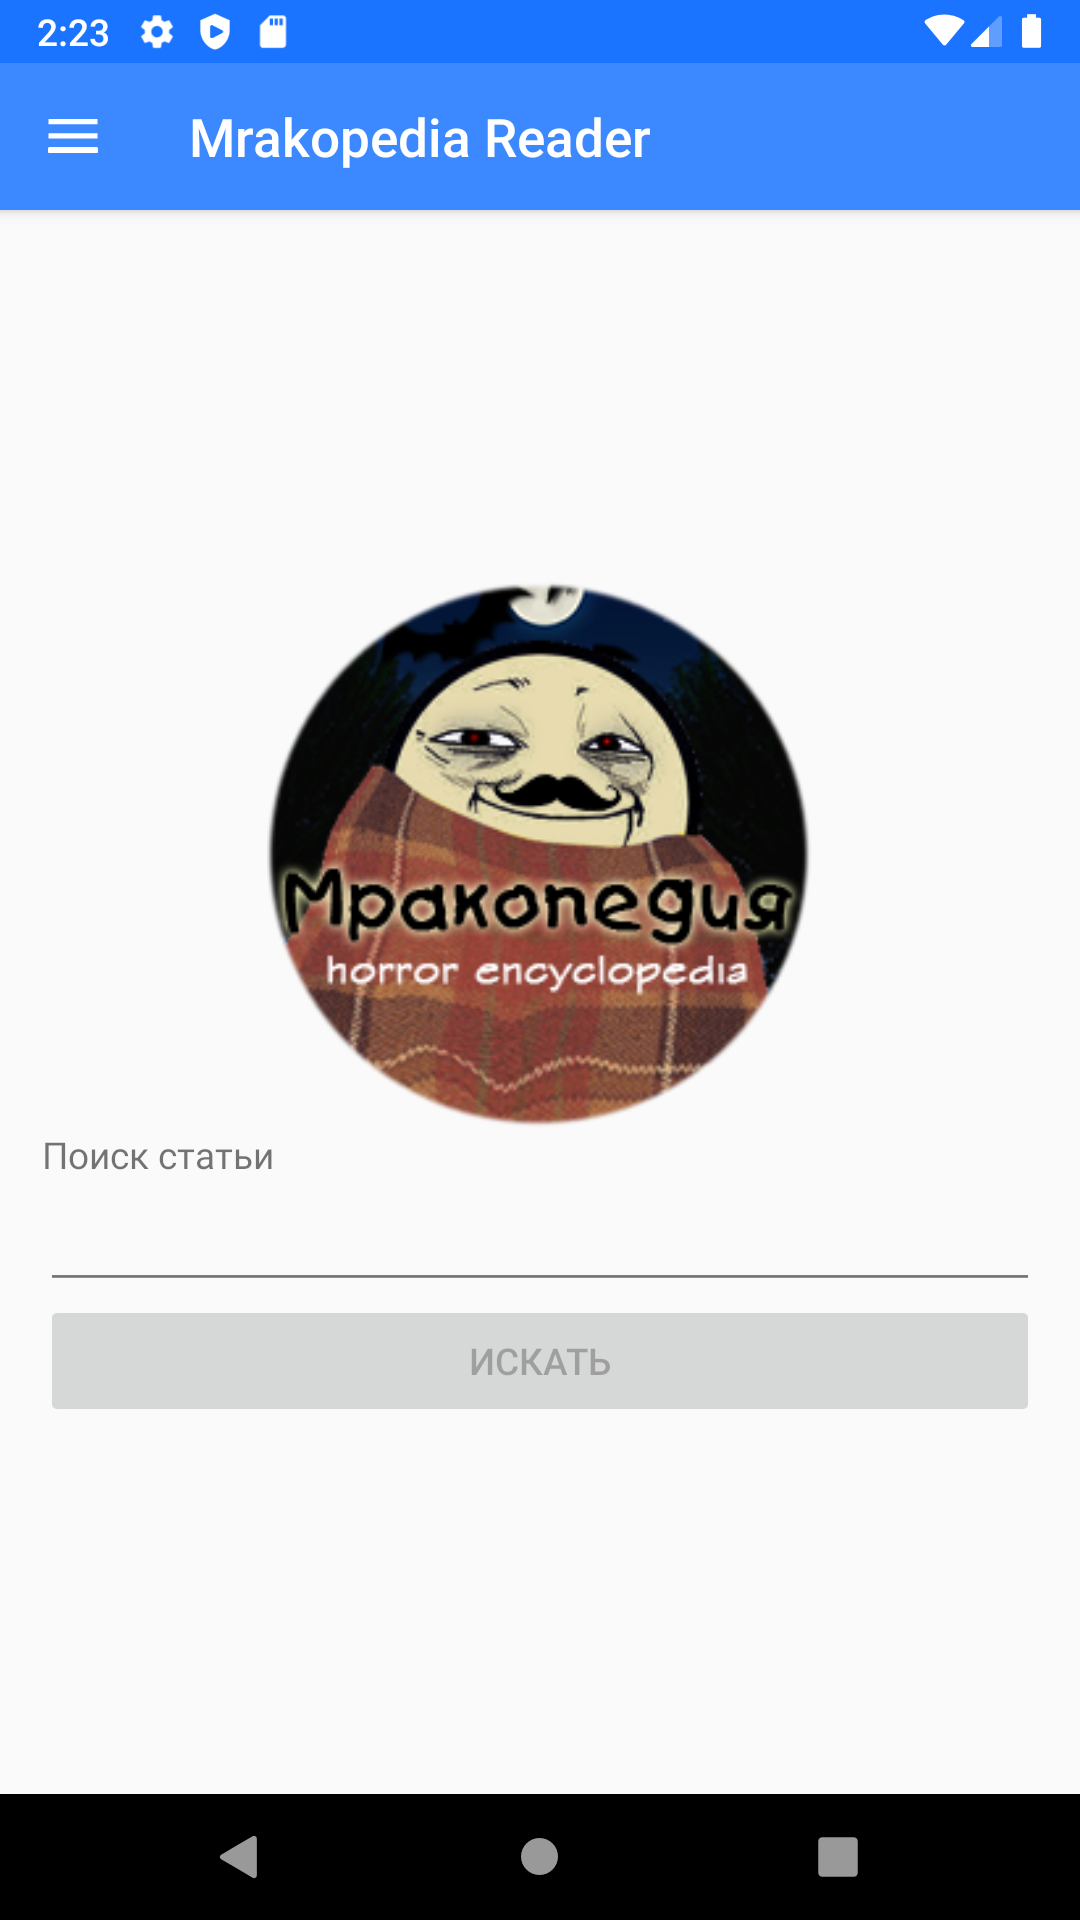
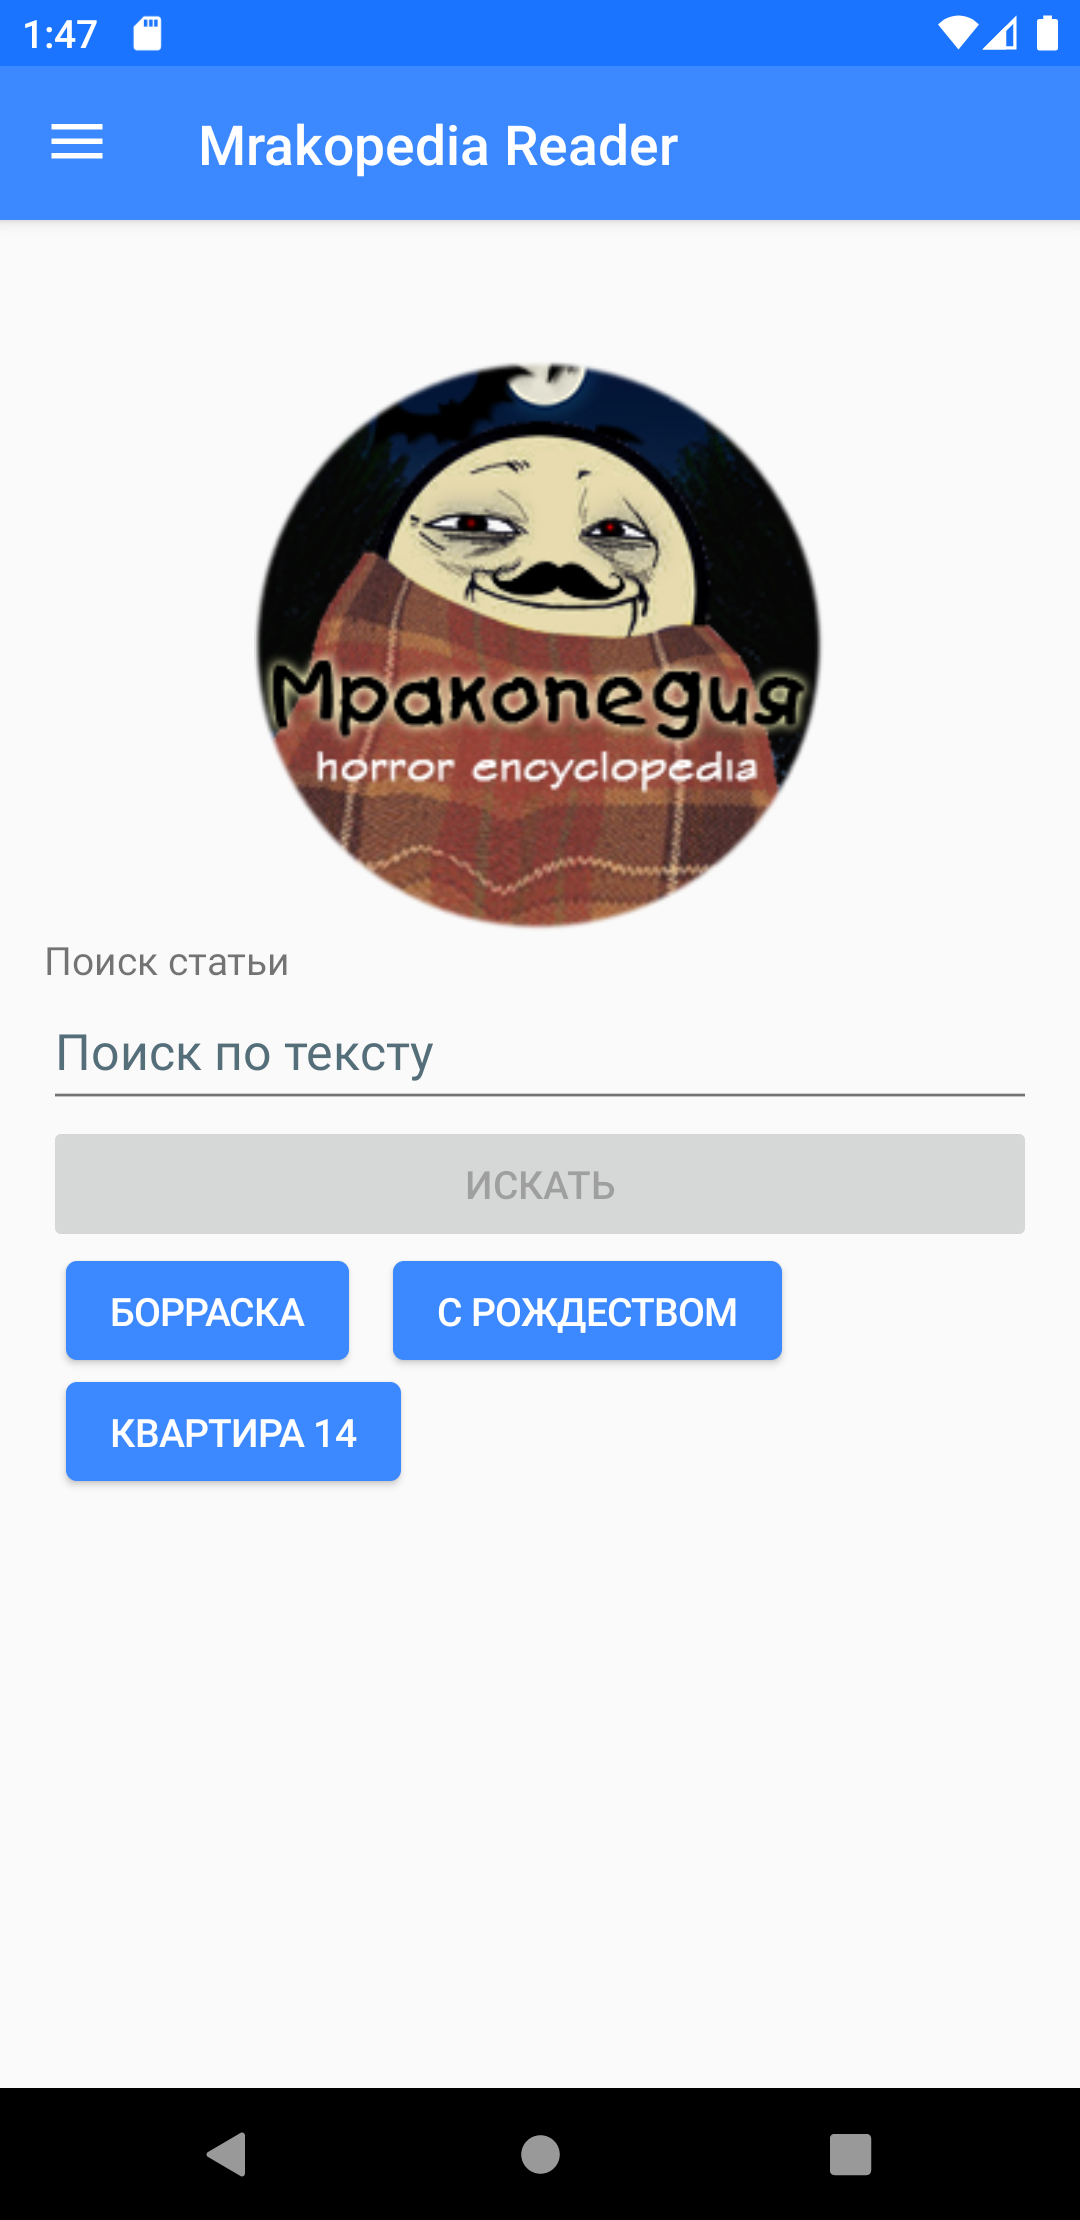
update readme and screenshot

diff --git a/README.md b/README.md
@@ -2,12 +2,3 @@
 The mobile Android client for [Mrakopedia](https://mrakopedia.net).
 
 <img src="https://github.com/pokatomnik/mrakopedia-reader/blob/master/screenshot.png?raw=true" width="300">
-
-## Features
-- Search by page title
-- Random page
-- Observe categories
-- Favorites
-- Stories of the month
-- Pages zoom
-- Sharing
